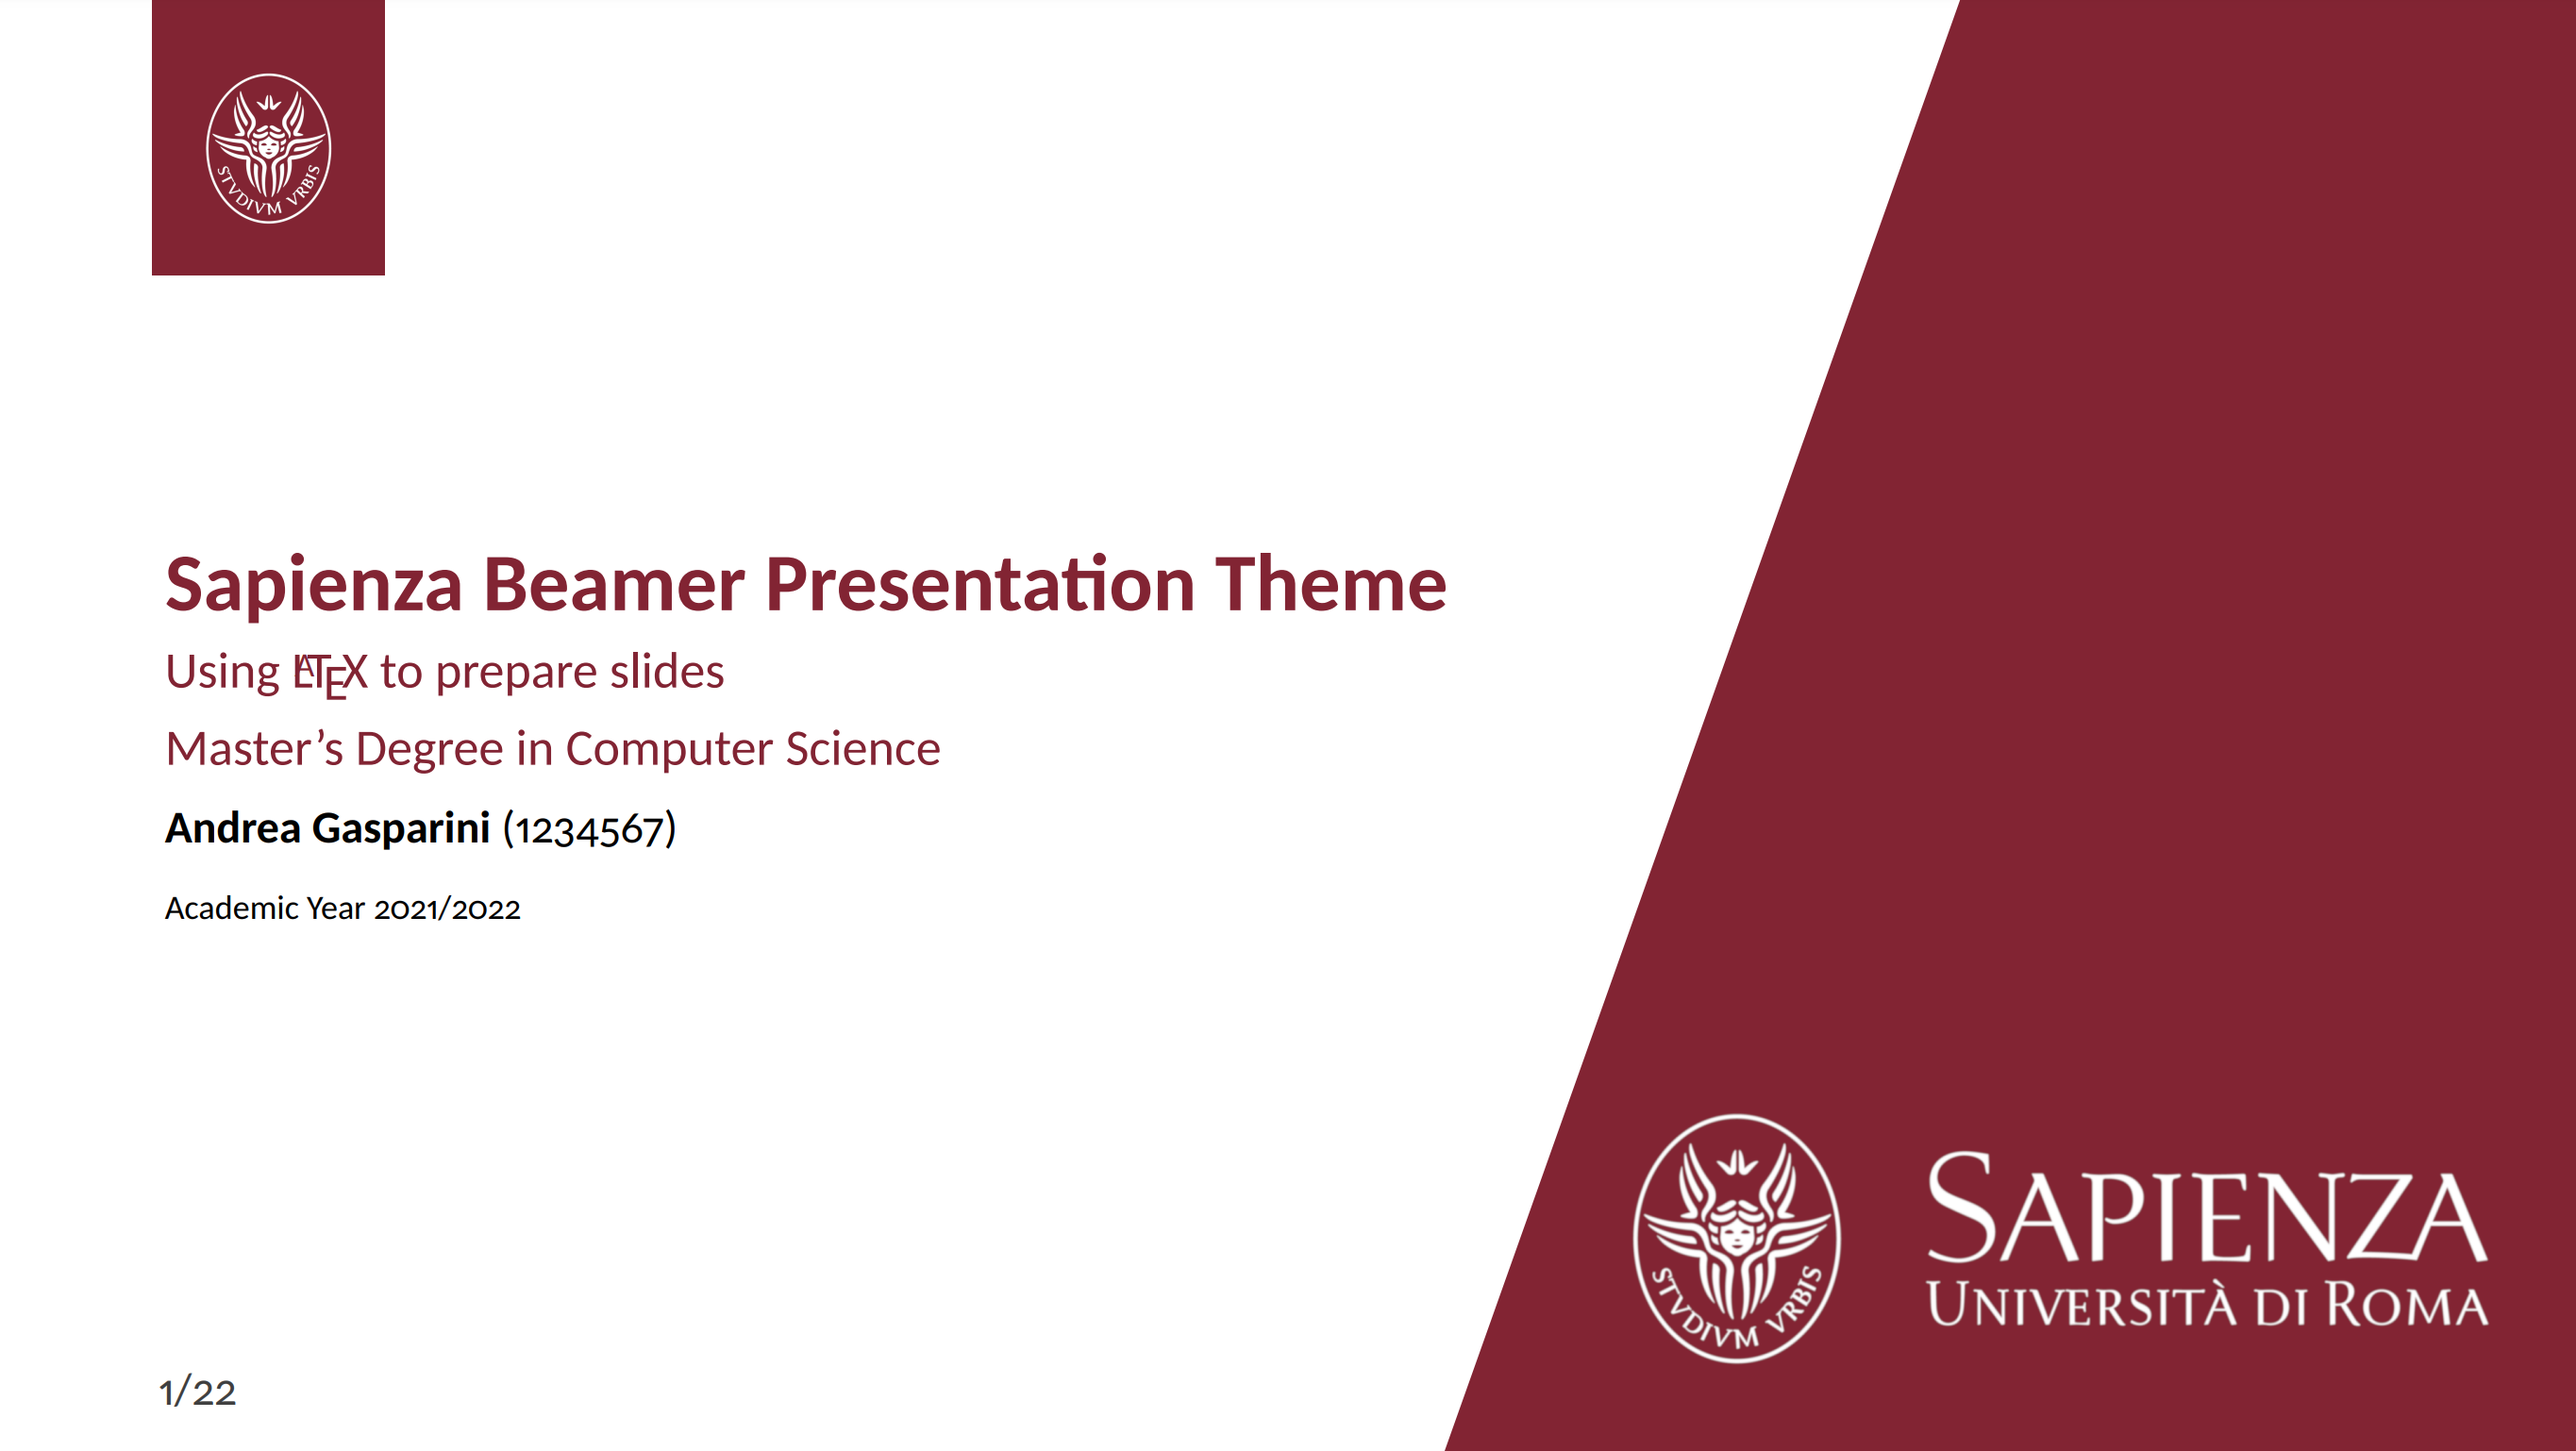
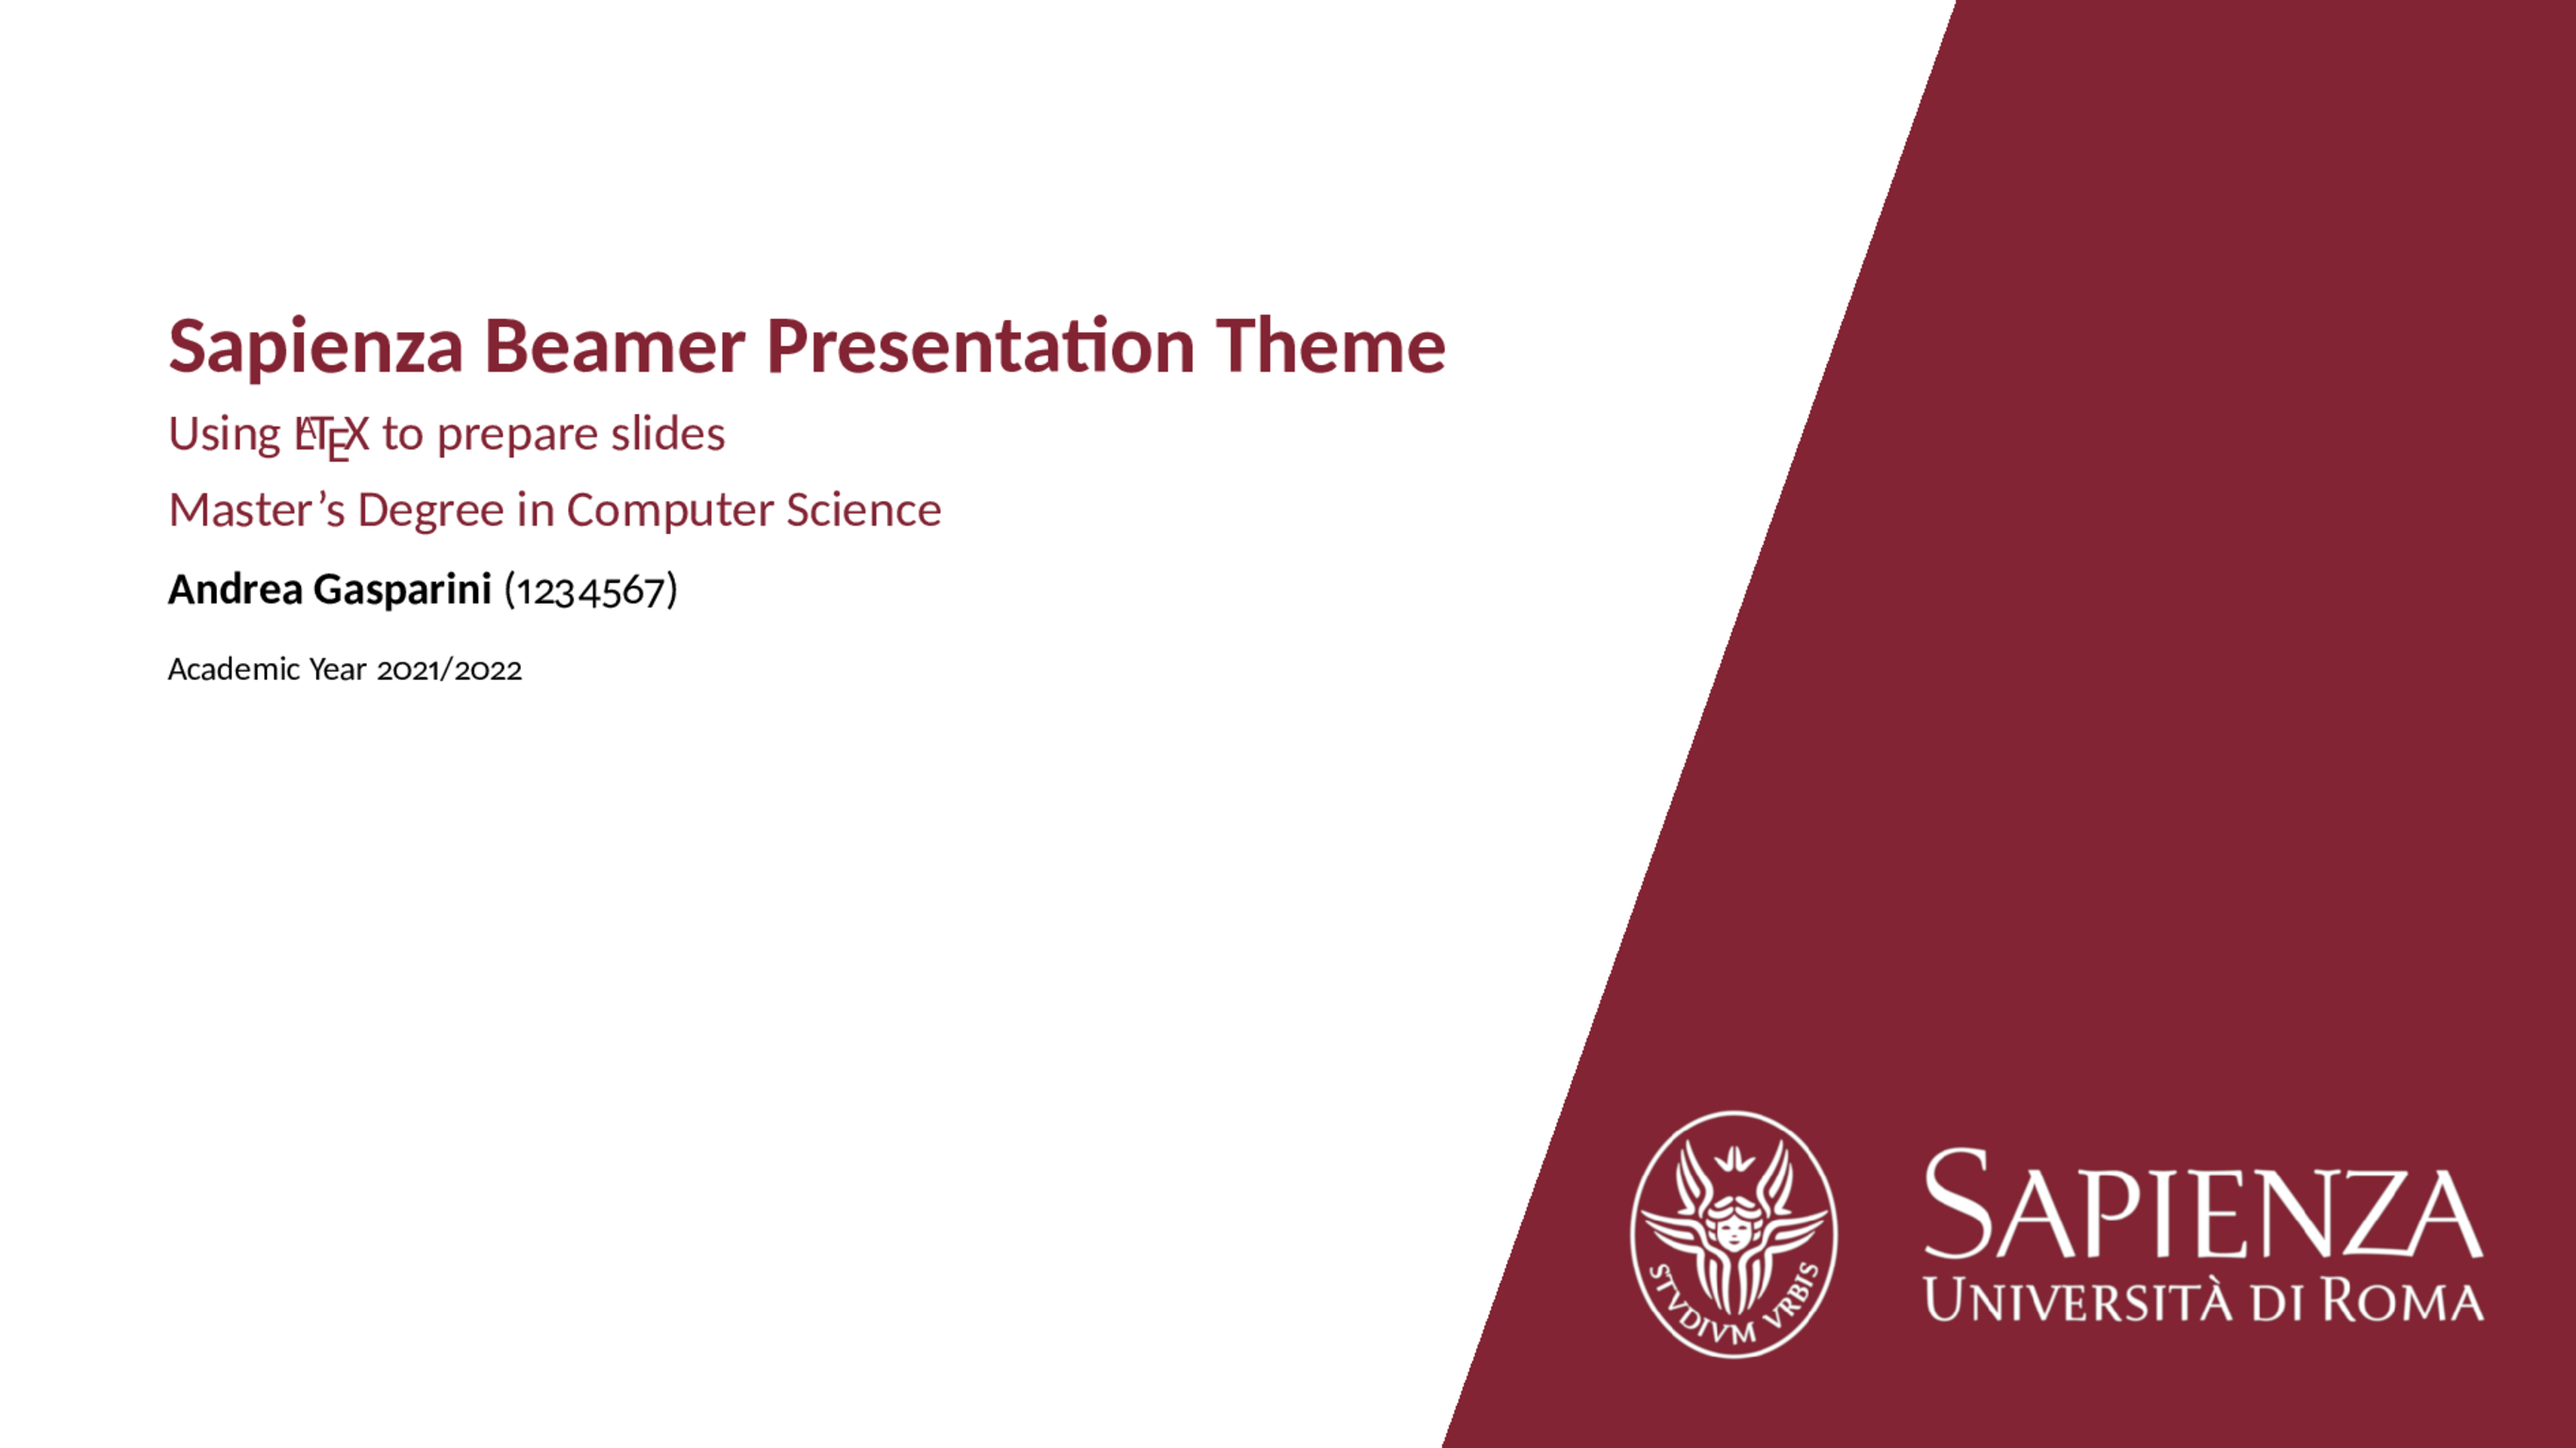
Add README description for noslidenumber option, update title page screenshot

diff --git a/README.md b/README.md
@@ -4,6 +4,16 @@ This is an **unofficial** template to create slides with LaTeX beamer for Sapien
 
 The template is already available on Overleaf Gallery and can be directly used by clicking on "Open as Template" from [here](https://www.overleaf.com/latex/templates/sapienza-presentation/yyksmrskffhk).
 
+## Options
+
+* `noslidenumber`: disable slide numbering
+
+Example:
+
+```tex
+\usetheme[noslidenumber]{sintef}
+```
+
 ## Screenshots
 
 ### Title page
